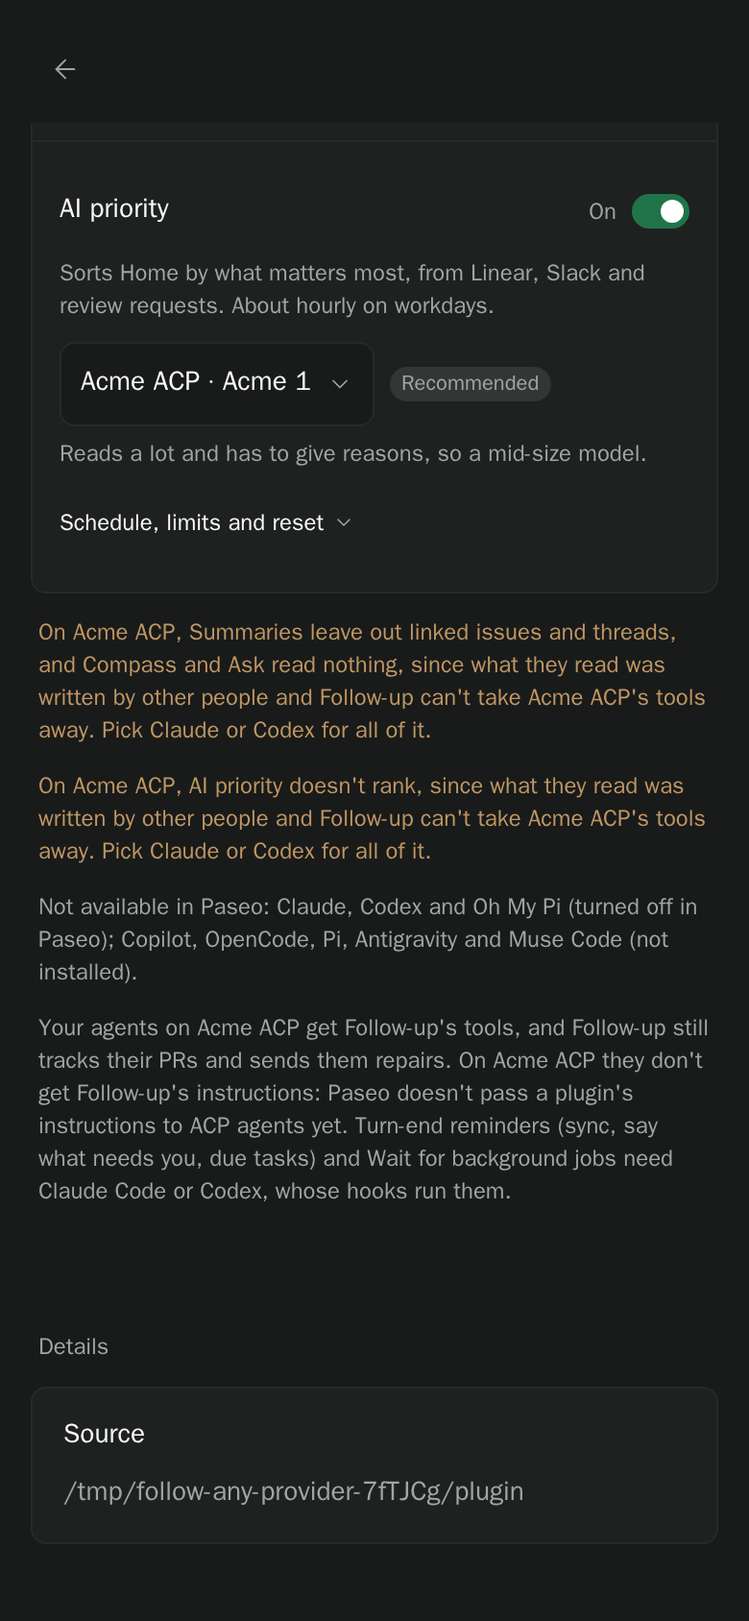
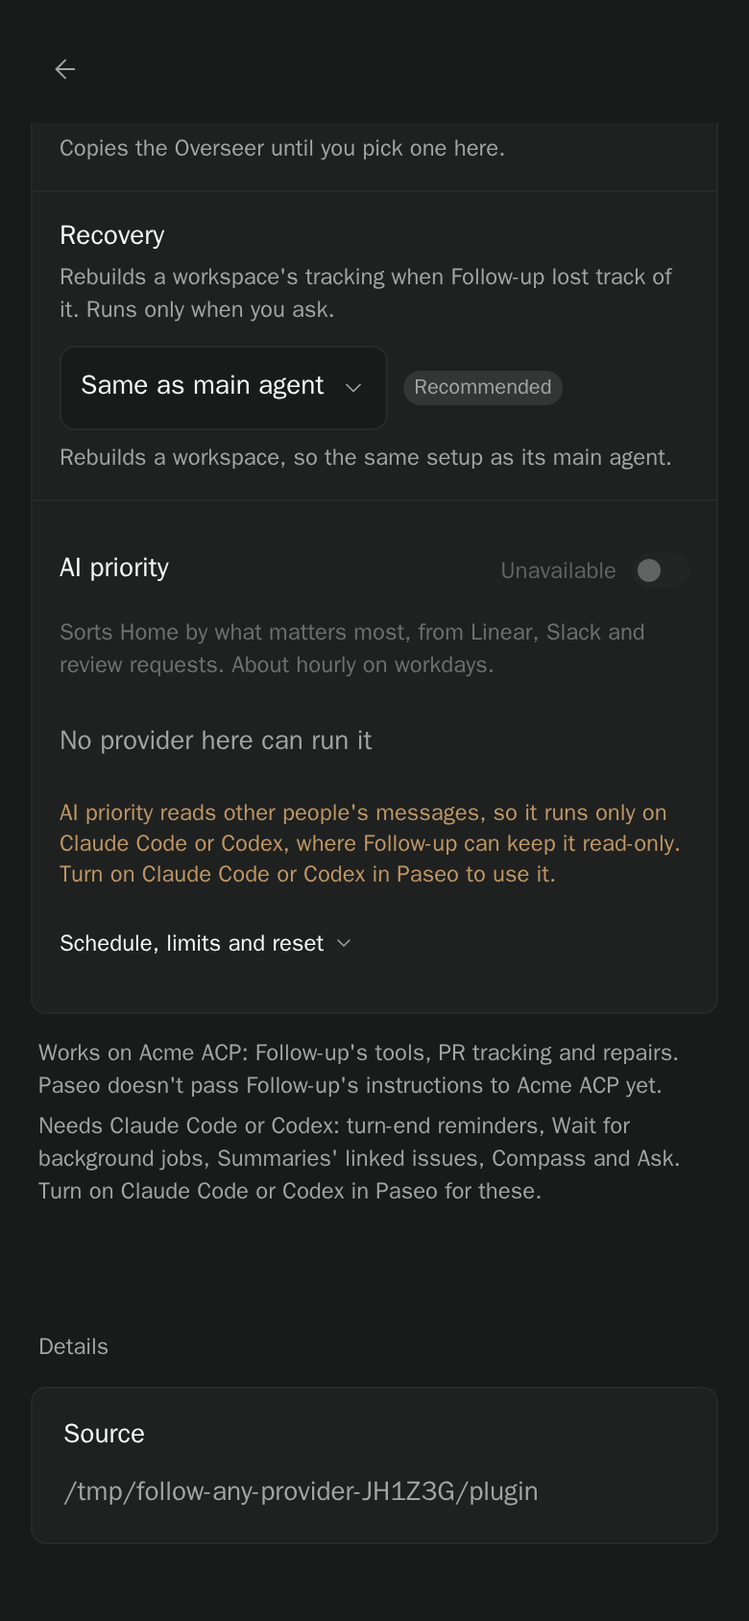
fix: Settings → Agents never recommends a helper where it can't run, in one block
AI priority reads other people's messages, so it runs only on Claude Code or
Codex: it is never Recommended on another provider, and with neither available
its row says Unavailable, shows no pick, and its undimmed reason says to install
or turn one on, never to pick one. The caveats under the rows are one block of
at most two short lines: what works on other providers, then what needs Claude
Code or Codex and the one thing to do (impeccable critique, twice).

Changed region(s): [[0.0308, 0.2773, 0.9538, 0.7393], [0.0615, 0.0924, 0.9231, 0.2464], [0.4923, 0.8934, 0.7077, 0.9242]]

diff --git a/tests/any-provider-core.test.ts b/tests/any-provider-core.test.ts
@@ -53,10 +53,12 @@ test("an-agent-on-any-provider-gets-follow-up: the worker with only OpenCode: to
   };
   const run = (name: string, input: unknown) => { const h = handlers.get(name) as Registered; return h.input.parseAsync(input).then(i => h.run(i, { paseo })); };
 
-  // Helpers: none was picked, Claude isn't here, so each runs on OpenCode, sized to the job.
+  // Helpers: none was picked, Claude isn't here, so each runs on OpenCode, sized to the job; AI priority, which reads
+  // what other people wrote, has no provider it can run on, so it stays put and its row says so (blocked).
   const view = await run("follow.agent-settings", { catalog: true }) as { roles: { role: string; provider: string; model: string | null; same: boolean }[] };
   const roles = Object.fromEntries(view.roles.map(r => [r.role, r]));
-  assert.deepEqual([roles.about!.provider, roles.ranker!.provider, roles.overseer!.provider], ["opencode", "opencode", "opencode"], "no helper defaults to a provider the developer lacks");
+  assert.deepEqual([roles.about!.provider, roles.overseer!.provider], ["opencode", "opencode"], "no helper defaults to a provider the developer lacks");
+  assert.notEqual(roles.ranker!.provider, "opencode", "AI priority is never moved onto a provider it can't run on");
   assert.equal(roles.about!.model, "small-fast"); assert.equal(roles.overseer!.model, "frontier");
   assert.equal(roles.recovery!.same, true, "recovery still copies the main agent, whatever it runs on");
 
@@ -79,17 +81,44 @@ test("an-agent-on-any-provider-gets-follow-up: the worker with only OpenCode: to
   await rm(tried, { force: true });
 });
 
-test("noHooksLine names what other providers miss, and nothing when every provider has hooks", async () => {
-  const { noHooksLine } = await import("../shared/provider-support");
-  const p = (id: string, label: string, available = true) => ({ id, label, available });
-  assert.equal(noHooksLine([p("claude", "Claude"), p("codex", "Codex")]), null);
-  assert.equal(noHooksLine([p("claude", "Claude"), p("opencode", "OpenCode", false)]), null, "an unavailable provider isn't the developer's");
-  const both = noHooksLine([p("opencode", "OpenCode"), p("pi", "Pi")])!;
-  assert.match(both, /^Your agents on OpenCode and Pi get Follow-up's tools, and Follow-up still tracks their PRs and sends them repairs\. Turn-end reminders .* need Claude Code or Codex, whose hooks run them\.$/);
-  assert.doesNotMatch(both, /instructions/, "OpenCode and Pi do get the instructions: nothing says otherwise");
-  assert.match(noHooksLine([p("copilot", "Copilot")])!, / On Copilot they don't get Follow-up's instructions: Paseo doesn't pass a plugin's instructions to ACP agents yet\./);
-  // A generic ACP agent carries the developer's own id: the worker marks it from Paseo's config (acp), never by id.
-  assert.match(noHooksLine([{ ...p("acme-acp", "Acme ACP"), acp: true }])!, / On Acme ACP they don't get Follow-up's instructions: /);
+test("providerNotes: at most two short lines, what works first, then what needs Claude Code or Codex and the one thing to do", async () => {
+  const { providerNotes, guardAction } = await import("../shared/provider-support");
+  const p = (id: string, label: string, available = true, reason: string | null = null) => ({ id, label, available, reason });
+  assert.deepEqual(providerNotes([p("claude", "Claude"), p("codex", "Codex")], "claude"), [], "nothing to say with Claude and Codex");
+  assert.deepEqual(providerNotes([p("claude", "Claude"), p("opencode", "OpenCode")], "claude"), [
+    "Works on OpenCode: Follow-up's tools, PR tracking and repairs.",
+    "Needs Claude Code or Codex: turn-end reminders and Wait for background jobs. Use Claude Code or Codex for these.",
+  ]);
+  // A new non-Claude user: only a generic ACP agent, Claude and Codex turned off, Summaries on the ACP agent.
+  const acp = providerNotes([p("claude", "Claude", false, "Turned off in Paseo"), p("codex", "Codex", false, "Turned off in Paseo"), p("pi", "Pi", false, "Not installed"), { ...p("acme-acp", "Acme ACP"), acp: true }], "acme-acp");
+  assert.deepEqual(acp, [
+    "Works on Acme ACP: Follow-up's tools, PR tracking and repairs. Paseo doesn't pass Follow-up's instructions to Acme ACP yet.",
+    "Needs Claude Code or Codex: turn-end reminders, Wait for background jobs, Summaries' linked issues, Compass and Ask. Turn on Claude Code or Codex in Paseo for these.",
+  ]);
+  assert.doesNotMatch(acp.join(" "), /Pick Claude|hooks|tools away/, "no dead end, no mechanism words");
+  assert.equal(guardAction([p("opencode", "OpenCode")]), "Install Claude Code or Codex");
+  assert.equal(guardAction([p("codex", "Codex"), p("opencode", "OpenCode")]), "Use Claude Code or Codex");
+});
+
+test("a helper that reads other people's words is never Recommended where it can't run, and shows off with no guarded provider", async () => {
+  const { jobRow } = await import("../shared/job-rows");
+  const { recommend } = await import("../shared/recommend");
+  const { resolveRole, roleSummary, EMPTY_AGENT_SETTINGS } = await import("../shared/agent-settings");
+  const prov = (id: string, available = true, reason: string | null = null) => ({ id, label: id === "acme-acp" ? "Acme ACP" : id, available, reason, models: [{ id: `${id}-1`, label: `${id} 1`, isDefault: true, thinking: [] }], modes: [], defaultMode: null });
+  const cat = (...providers: ReturnType<typeof prov>[]) => ({ providers, error: null, fetchedAt: null });
+  const ranker = (over: Record<string, unknown> = {}) => { const d = { ...resolveRole(EMPTY_AGENT_SETTINGS, "ranker"), ...over }; return { ...d, summary: roleSummary(d) }; };
+  const none = cat(prov("claude", false, "Turned off in Paseo"), prov("codex", false, "Not installed"), prov("acme-acp"));
+  assert.equal(recommend("ranker", none.providers).source, "none", "AI priority is never recommended on an unguarded provider");
+  assert.equal(recommend("about", none.providers).provider, "acme-acp", "Summaries still runs there");
+  const blocked = jobRow(ranker({ provider: "acme-acp", model: null }), none);
+  assert.equal(blocked.blocked, true); assert.equal(blocked.recommended, false);
+  assert.equal(blocked.pick, "No provider here can run it", "never a pick on a provider the developer lacks");
+  assert.equal(blocked.notice?.tone, "warning");
+  assert.match(blocked.notice!.text, /^AI priority reads other people's messages, so it runs only on Claude Code or Codex, where Follow-up can keep it read-only\. Turn on Claude Code or Codex in Paseo to use it\.$/);
+  const withCodex = cat(prov("codex"), prov("acme-acp"));
+  const moved = jobRow(ranker({ provider: "acme-acp", model: null }), withCodex);
+  assert.equal(moved.blocked, false); assert.equal(moved.recommended, false); assert.equal(moved.rec?.provider, "codex");
+  assert.match(moved.notice!.text, /^AI priority reads other people's messages, so it runs only on Claude Code or Codex, .* Recommended: /);
 });
 
 test("isAcp follows Paseo's config: a provider that extends acp, directly or through another, is ACP", async () => {

diff --git a/client/agents.tsx b/client/agents.tsx
@@ -6,9 +6,9 @@ import { SettingsAction, SettingsCard, SettingsSection, SettingsSelect, Settings
 import { useMutation, useQuery, useQueryClient } from "@tanstack/react-query";
 import { agentSettingsRpc, setAgentSettingRpc, setWaitRpc } from "../shared/contracts";
 import { WAIT_HOST_NOTE, WAIT_NOT_ATTACHED, waitNote, waitSwitchCopy } from "../shared/wait";
-import { OUTSIDE_READS, guardedProvider, hasSame, isJobRole, type AgentRole, type AgentSettingsView, type SavedRole } from "../shared/agent-settings";
+import { hasSame, isJobRole, type AgentRole, type AgentSettingsView, type SavedRole } from "../shared/agent-settings";
 import { NO_PROMPT_MODE, SETTINGS_ORDER, isReset, resetEntry } from "../shared/job-rows";
-import { noHooksLine } from "../shared/provider-support";
+import { providerNotes } from "../shared/provider-support";
 import { JobRows, agentSettingsKey, useAgentSettings, type JobExtra } from "./job-rows";
 import { Button, errorText, text, type Theme } from "./kit";
 
@@ -27,7 +27,9 @@ export function AgentSettings({ theme, compact }: Pick<PluginSurfaceProps, "them
   const c = theme.colors; const t = text(c);
   const { query } = useAgentSettings();
   const data = query.data;
-  const noHooks = data?.catalog ? noHooksLine(data.catalog.providers) : null;
+  // One block under the rows: what works on other providers, what needs Claude Code or Codex and what to do, then what
+  // Paseo doesn't have (an-agent-on-any-provider-gets-follow-up; AI priority says its own case on its row).
+  const notes = data?.catalog ? providerNotes(data.catalog.providers, data.roles.find(r => r.role === "about")?.provider ?? null) : null;
   const more: JobExtra = {
     // The toggle names what's inside, so nobody opens it to find out.
     label: r => r.role === "ranker" ? "Schedule, limits and reset" : isJobRole(r.role) ? "Limits and reset" : r.same ? null : "Permissions and reset",
@@ -38,15 +40,9 @@ export function AgentSettings({ theme, compact }: Pick<PluginSurfaceProps, "them
     <SettingsCard>
       <JobRows theme={theme} compact={compact} order={SETTINGS_ORDER} extra={more} />
     </SettingsCard>
-    {/* A job role on a provider Follow-up can't take tools from: what it no longer reads, and why (invariant 81). */}
-    {(data?.roles ?? []).filter(r => isJobRole(r.role) && !guardedProvider(r.provider) && OUTSIDE_READS[r.role]).map(r => {
-      const label = data?.catalog?.providers.find(p => p.id === r.provider)?.label ?? r.provider;
-      return <Text key={r.role} accessibilityRole="alert" style={[t.meta, { color: c.statusWarning, paddingHorizontal: 4, maxWidth: 720 }]}>{unguardedLine(r.role, label)}</Text>;
-    })}
-    {/* Once, after the rows: what can't be picked and why (the pickers only list what can). */}
-    {!!data?.catalog && unavailableLine(data.catalog.providers) && <Text style={[t.meta, { paddingHorizontal: 4, maxWidth: 720 }]}>{unavailableLine(data.catalog.providers)}</Text>}
-    {/* What agents on a provider without Follow-up's hooks don't get, and why (an-agent-on-any-provider-gets-follow-up). */}
-    {!!noHooks && <Text style={[t.meta, { paddingHorizontal: 4, maxWidth: 720 }]}>{noHooks}</Text>}
+    {!!notes?.length && <View style={{ gap: 4, paddingHorizontal: 4, maxWidth: 720 }}>
+      {notes.map(line => <Text key={line} style={t.meta}>{line}</Text>)}
+    </View>}
   </SettingsSection>;
 }
 
@@ -123,22 +119,4 @@ function RoleMore({ r, save, busy, theme, compact, invalid }: { r: Role; save: (
 }
 
 const roleDefaultText = (role: AgentRole) => role === "recovery" ? "the main agent's setup" : role === "dispatch" ? "the Overseer's agent" : role === "overseer" ? "Claude, newest Opus" : role === "about" ? "Claude Haiku" : "Claude Sonnet, hourly";
-/** "Not available in Paseo: Claude and Pi (turned off in Paseo); Antigravity (not installed)." Grouped by reason; a
- * provider whose name is also on a ready one isn't listed, so the line never contradicts the rows. */
-/** "On OpenCode, AI priority doesn't rank, since what it reads was written by other people…" (invariant 81). */
-export const unguardedLine = (role: AgentRole, label: string) =>
-  `On ${label}, ${OUTSIDE_READS[role]}, since what they read was written by other people and Follow-up can't take ${label}'s tools away. Pick Claude or Codex for all of it.`;
-
-function unavailableLine(providers: readonly { label: string; available: boolean; reason: string | null }[]): string | null {
-  const ready = new Set(providers.filter(p => p.available).map(p => p.label));
-  const groups = new Map<string, string[]>();
-  for (const p of providers) if (!p.available && !ready.has(p.label)) {
-    // Paseo's reasons can name binaries and PATH; developers here only need "not installed".
-    const why = /not found|PATH|not installed/i.test(p.reason ?? "") ? "not installed" : (p.reason ?? "unavailable").replace(/\.$/, "");
-    groups.set(why, [...(groups.get(why) ?? []), p.label]);
-  }
-  if (!groups.size) return null;
-  const list = (names: string[]) => names.length < 2 ? names.join("") : `${names.slice(0, -1).join(", ")} and ${names[names.length - 1]}`;
-  return `Not available in Paseo: ${[...groups].map(([why, names]) => `${list(names)} (${why[0].toLowerCase()}${why.slice(1)})`).join("; ")}.`;
-}
 const withCurrent = (list: number[], value: number) => [...new Set([...list, value])].sort((a, b) => a - b);

diff --git a/client/job-rows.tsx b/client/job-rows.tsx
@@ -106,7 +106,8 @@ export function JobRows({ theme, compact, order, extra, preselect = false }: {
       const on = field && display.status === "ready" ? display.values[field] !== false : null;
       return <JobRow key={r.role} first={i === 0} row={rows[i]} r={r} catalog={catalog?.providers ?? []} loading={!catalog} theme={theme} compact={compact} busy={busy}
         open={open === r.role} onToggle={() => setOpen(open === r.role ? null : r.role)}
-        enabled={field ? on : undefined} onEnable={field && display.status === "ready" ? v => void display.save({ ...display.values, [field]: v }, display.revision).catch(e => toast.error(errorText(e))) : undefined}
+        // A job no available provider can run (needsGuard) shows off, and its notice says why; the setting is kept.
+        enabled={field ? (rows[i]!.blocked ? false : on) : undefined} onEnable={field && display.status === "ready" && !rows[i]!.blocked ? v => void display.save({ ...display.values, [field]: v }, display.revision).catch(e => toast.error(errorText(e))) : undefined}
         save={entry => change.mutate({ role: r.role, entry })} extra={extra} />;
     })}
   </View>;
@@ -125,12 +126,16 @@ export function JobRow({ row, r, catalog, loading, theme, compact, busy, open, o
   return <View style={{ borderTopWidth: first ? 0 : 1, borderTopColor: c.border, paddingHorizontal: pad, paddingVertical: 14, gap: 2 }}>
     <View style={{ flexDirection: "row", alignItems: "center", gap: 10 }}>
       <Text accessibilityRole="header" style={[t.label, { flex: 1 }]}>{row.title}</Text>
-      {enabled !== undefined && <Switch theme={theme} compact={compact} label={enabled ? "On" : "Off"} accessibilityLabel={row.title} value={enabled} disabled={!onEnable} onChange={v => onEnable?.(v)} />}
+      {enabled !== undefined && <Switch theme={theme} compact={compact} label={row.blocked ? "Unavailable" : enabled ? "On" : "Off"} accessibilityLabel={row.title} hint={row.blocked ? row.notice?.text : undefined} value={enabled} disabled={!onEnable} onChange={v => onEnable?.(v)} />}
     </View>
     <Text style={[t.meta, off && { opacity: 0.6 }]}>{row.does}</Text>
-    <View style={{ opacity: off ? 0.6 : 1, gap: 6, marginTop: 8 }}>
+    {/* An off row dims, but never its warning: the one line that says why must stay readable. */}
+    <View style={{ opacity: off && row.notice?.tone !== "warning" ? 0.6 : 1, gap: 6, marginTop: 8 }}>
       <View style={{ flexDirection: "row", flexWrap: "wrap", alignItems: "center", gap: 8 }}>
-        {loading
+        {row.blocked && !loading
+          // Nothing here can run it: the state as plain text, not a picker that opens onto choices that can't run it.
+          ? <Text style={[t.body, { color: c.foregroundMuted, minHeight: compact ? 44 : 32, textAlignVertical: "center", paddingVertical: compact ? 12 : 6 }]}>{row.pick}</Text>
+          : loading
           ? <View style={{ flexDirection: "row", alignItems: "center", gap: 8, minHeight: compact ? 44 : 32 }}><Spinner color={c.foregroundMuted} size={14} /><Text style={t.meta}>Reading your providers…</Text></View>
           : <Pressable accessibilityRole="button" accessibilityLabel={`${row.title} model: ${row.pick}. Change`} accessibilityState={{ expanded: open, disabled: busy }} aria-expanded={open}
               disabled={busy && !open} onPress={onToggle}
@@ -140,7 +145,7 @@ export function JobRow({ row, r, catalog, loading, theme, compact, busy, open, o
             </Pressable>}
         {row.recommended && <Chip theme={theme} label="Recommended" color={c.foregroundMuted} />}
       </View>
-      <Text style={[t.meta, { fontSize: 12, lineHeight: 16 }]}>{row.hint ? `${row.need} ${row.hint}` : row.need}</Text>
+      {!row.blocked && <Text style={[t.meta, { fontSize: 12, lineHeight: 16 }]}>{row.hint ? `${row.need} ${row.hint}` : row.need}</Text>}
       {row.notice && <View style={{ gap: 6, alignItems: "flex-start" }}>
         <Text accessibilityRole={row.notice.tone === "warning" ? "alert" : undefined} style={[t.meta, { fontSize: 12, lineHeight: 16, color: row.notice.tone === "warning" ? c.statusWarning : c.foregroundMuted }]}>{row.notice.text}</Text>
         {/* Can't run: a real button, the row's one way back. Only differs: the developer chose it, so a quiet link. */}

diff --git a/shared/provider-support.ts b/shared/provider-support.ts
@@ -36,20 +36,35 @@ export function isAcp(provider: string, config?: ProviderConfig): boolean {
 }
 const list = (names: string[]) => names.length <= 1 ? names.join("") : `${names.slice(0, -1).join(", ")} and ${names.at(-1)}`;
 
+type NoteProvider = { id: string; label: string; available: boolean; reason?: string | null; acp?: boolean };
+
 /**
- * The one line that says what agents on the developer's other providers miss, and why; null when every available
- * provider has hooks. Settings → Agents shows it under the helper rows.
+ * What to do to get what needs Claude Code or Codex, from what Paseo has: use them when one is available, turn one on
+ * when Paseo has it turned off, install one otherwise. Never "pick" a provider the developer can't pick.
  */
-export function noHooksLine(providers: readonly { id: string; label: string; available: boolean; acp?: boolean }[]): string | null {
+export function guardAction(providers: readonly NoteProvider[]): string {
+  const guarded = providers.filter(p => hasHooks(p.id));
+  if (guarded.some(p => p.available)) return "Use Claude Code or Codex";
+  if (guarded.some(p => /turned off/i.test(p.reason ?? ""))) return "Turn on Claude Code or Codex in Paseo";
+  return "Install Claude Code or Codex";
+}
+
+/**
+ * Settings → Agents' one block under the helper rows, at most two short lines: what works on the developer's other
+ * providers (and, for ACP agents, the one thing Paseo doesn't pass yet), then what needs Claude Code or Codex with the
+ * one thing to do (guardAction). `summariesOn` is the provider Summaries runs on: off Claude and Codex it leaves out
+ * linked items, and Compass and Ask read nothing (sources-are-read-only). Why AI priority can't run is on its row.
+ * Empty when there's nothing to say.
+ */
+export function providerNotes(providers: readonly NoteProvider[], summariesOn: string | null): string[] {
   const others = providers.filter(p => p.available && !hasHooks(p.id));
-  if (!others.length) return null;
-  const acpOf = (p: { id: string; acp?: boolean }) => p.acp ?? isAcp(p.id);
-  const acp = others.filter(acpOf).map(p => p.label);
-  // Outcome first, then why; what still works, so "tools only" never reads as "doesn't work" (critique 2026-11-25).
-  const parts = [
-    `Your agents on ${list(others.map(p => p.label))} get Follow-up's tools, and Follow-up still tracks their PRs and sends them repairs.`,
-    acp.length ? `On ${list(acp)} they don't get Follow-up's instructions: Paseo doesn't pass a plugin's instructions to ACP agents yet.` : null,
-    "Turn-end reminders (sync, say what needs you, due tasks) and Wait for background jobs need Claude Code or Codex, whose hooks run them.",
+  const acp = others.filter(p => p.acp ?? isAcp(p.id)).map(p => p.label);
+  const needs = [
+    ...(others.length ? ["turn-end reminders", "Wait for background jobs"] : []),
+    ...(summariesOn && !hasHooks(summariesOn) ? ["Summaries' linked issues", "Compass", "Ask"] : []),
   ];
-  return parts.filter(Boolean).join(" ");
+  return [
+    others.length ? `Works on ${list(others.map(p => p.label))}: Follow-up's tools, PR tracking and repairs.${acp.length ? ` Paseo doesn't pass Follow-up's instructions to ${list(acp)} yet.` : ""}` : null,
+    needs.length ? `Needs Claude Code or Codex: ${list(needs)}. ${guardAction(providers)} for ${needs.length > 1 ? "these" : "it"}.` : null,
+  ].filter((x): x is string => !!x);
 }

diff --git a/shared/job-rows.ts b/shared/job-rows.ts
@@ -1,5 +1,6 @@
-import { EMPTY_AGENT_SETTINGS, ROLE_DEFAULTS, ROLE_INFO, SAME_LABEL, hasSame, isJobRole, labelsFor, resolveRole, roleSummary, type AgentRole, type AgentSettingsView, type Catalog, type RoleConfig, type SavedRole } from "./agent-settings";
+import { EMPTY_AGENT_SETTINGS, ROLE_DEFAULTS, guardedProvider, needsGuard, ROLE_INFO, SAME_LABEL, hasSame, isJobRole, labelsFor, resolveRole, roleSummary, type AgentRole, type AgentSettingsView, type Catalog, type RoleConfig, type SavedRole } from "./agent-settings";
 import { ROLE_NEED, isRecommended, recommend, type Recommendation } from "./recommend";
+import { guardAction } from "./provider-support";
 
 /**
  * One job row, as both setup's Helper agents step and Settings → Agents show it (client/job-rows.tsx renders it).
@@ -24,6 +25,8 @@ export type JobRowModel = {
   notice: { tone: "warning" | "muted"; text: string } | null;
   /** Said after the need line while the job is on the provider-default fallback. */
   hint: string | null;
+  /** No available provider can run this job (needsGuard): the row shows it off, with the notice saying why. */
+  blocked: boolean;
 };
 
 /** The provider each Paseo agent role switches to without prompting. */
@@ -59,13 +62,21 @@ export function jobRow(r: RoleView, catalog: Catalog | null | undefined): JobRow
   const current = providers.find(p => p.id === r.provider);
   const broken = known && !r.same && !current?.available;
   let notice: JobRowModel["notice"] = null;
-  if (broken) {
+  const title = ROLE_INFO[role].title;
+  const blocked = known && needsGuard(role) && !providers.some(p => p.available && guardedProvider(p.id));
+  if (blocked) {
+    notice = { tone: "warning", text: `${title} reads other people's messages, so it runs only on Claude Code or Codex, where Follow-up can keep it read-only. ${guardAction(providers)} to use it.` };
+  } else if (broken) {
     const name = current?.label ?? roleSummary(r).split(" · ")[0];
     notice = { tone: "warning", text: `${name} isn't available here, so ${WONT_RUN[role]}.${recPick ? ` Recommended: ${recPick}.` : ""}` };
+  } else if (known && needsGuard(role) && !r.same && !guardedProvider(r.provider)) {
+    notice = { tone: "warning", text: `${title} reads other people's messages, so it runs only on Claude Code or Codex, where Follow-up can keep it read-only.${recPick ? ` Recommended: ${recPick}.` : ""}` };
   } else if (recPick) notice = { tone: "muted", text: `Recommended: ${recPick}` };
   return {
-    role, title: ROLE_INFO[role].title, does: ROLE_INFO[role].does, need: ROLE_NEED[role], pick: r.summary, recommended, rec: usable, recPick, notice,
-    hint: recommended && usable?.source === "fallback" ? usable.hint : null,
+    role, title: ROLE_INFO[role].title, does: ROLE_INFO[role].does, need: ROLE_NEED[role],
+    // A blocked job shows no pick it can't run on (never a provider the developer lacks), only that nothing here runs it.
+    pick: blocked ? "No provider here can run it" : r.summary, recommended, rec: usable, recPick, notice,
+    hint: recommended && usable?.source === "fallback" ? usable.hint : null, blocked,
   };
 }
 

diff --git a/shared/recommend.ts b/shared/recommend.ts
@@ -1,4 +1,4 @@
-import { ROLE_DEFAULTS, type AgentRole, type CatalogModel, type CatalogProvider, type RoleConfig } from "./agent-settings";
+import { ROLE_DEFAULTS, guardedProvider, needsGuard, type AgentRole, type CatalogModel, type CatalogProvider, type RoleConfig } from "./agent-settings";
 
 /**
  * Which model each helper job should use, from whatever providers Paseo has. Setup's "Helper agents" step and
@@ -65,7 +65,8 @@ const lowEffort = (m: CatalogModel) => m.thinking.find(t => /^(minimal|low)$/i.t
 export function recommend(role: AgentRole, catalog: readonly CatalogProvider[]): Recommendation {
   const tier = ROLE_TIER[role];
   if (tier === "same") return { role, same: true, provider: ROLE_DEFAULTS[role].provider, model: null, thinking: null, source: "same", hint: null };
-  const providers = order(catalog);
+  // Never recommend a provider a job can't run on: AI priority only on Claude or Codex (sources-are-read-only).
+  const providers = order(catalog).filter(p => !needsGuard(role) || guardedProvider(p.id));
   if (!providers.length) return { role, same: false, provider: null, model: null, thinking: null, source: "none", hint: null };
   if (providers[0].id === "claude") { const d = ROLE_DEFAULTS[role]; return { role, same: false, provider: d.provider, model: d.model, thinking: d.thinking, source: "default", hint: null }; }
   for (const want of ["metadata", "name"] as const) {

diff --git a/shared/agent-settings.ts b/shared/agent-settings.ts
@@ -31,11 +31,11 @@ export const guardedProvider = (provider: string) => (CLI_JOB_PROVIDERS as reado
 /** The one line a refused job leaves (Settings → Agents, the source, the job's error). */
 export const unguardedJobWhy = (providerLabel: string, what: string) =>
   `${what} doesn't run on ${providerLabel}: it reads words other people wrote, and Follow-up can't take ${providerLabel}'s tools away. Pick Claude or Codex in Settings → Agents.`;
-/** What each job role reads from outside, for Settings → Agents' line on an unguarded provider. */
-export const OUTSIDE_READS: Partial<Record<AgentRole, string>> = {
-  about: "Summaries leave out linked issues and threads, and Compass and Ask read nothing",
-  ranker: "AI priority doesn't rank",
-};
+/**
+ * A job whose whole work reads words other people wrote (AI priority), so it runs only on a guarded provider: it's never
+ * recommended on any other, and with no guarded provider available its row says so and shows it off.
+ */
+export const needsGuard = (role: AgentRole) => role === "ranker";
 /** The roles that can copy another agent: recovery (the workspace's main agent) and dispatch (the Overseer). */
 export const hasSame = (role: AgentRole) => role === "recovery" || role === "dispatch";
 /** What a role's "same" copies, in the picker's words. */

diff --git a/tests/any-provider.test.ts b/tests/any-provider.test.ts
@@ -127,10 +127,11 @@ test("recommendations: OpenCode and Copilot go by the catalog's own wording firs
   const recs = recommendAll([COPILOT, OPENCODE]);
   assert.deepEqual([recs.about.provider, recs.about.model, recs.about.source], ["opencode", "qwen3-coder", "metadata"]);
   assert.deepEqual([recs.overseer.provider, recs.overseer.model, recs.overseer.source], ["opencode", "kimi-k2", "metadata"]);
-  assert.deepEqual([recs.ranker.provider, recs.ranker.model, recs.ranker.source], ["opencode", "glm-4.6", "metadata"]);
+  // AI priority reads what other people wrote: never recommended off Claude and Codex (sources-are-read-only).
+  assert.deepEqual([recs.ranker.provider, recs.ranker.source], [null, "none"]);
   // Copilot alone: names only; "gemini" is not "mini".
   const copilot = recommendAll([COPILOT]);
-  assert.deepEqual([copilot.about.model, copilot.overseer.model, copilot.ranker.model], ["gemini-2.5-flash", "gemini-2.5-pro", "gpt-4.1"]);
+  assert.deepEqual([copilot.about.model, copilot.overseer.model, copilot.ranker.provider], ["gemini-2.5-flash", "gemini-2.5-pro", null]);
   assert.equal(modelTier({ id: "gemini-2.5", label: "Gemini 2.5" }), null);
 });
 

diff --git a/AGENTS.md b/AGENTS.md
@@ -1391,7 +1391,9 @@ These are product rules. Each has tests, and breaking one is a bug even when the
 115. **An agent on any provider gets Follow-up** (`an-agent-on-any-provider-gets-follow-up`). Paseo runs agents on
    Claude Code, Codex and many more (OpenCode, Pi, Copilot, Cursor, Kimi, Kiro, any ACP agent), and many developers
    have neither Claude nor Codex. Every core feature works on any provider Paseo runs, or says in one line what needs
-   Claude or Codex and why (`noHooksLine`, `shared/provider-support.ts`, shown in Settings → Agents). Tools, `needs_you` and the Overseer's tools
+   Claude or Codex and why (`providerNotes`, `shared/provider-support.ts`: one block in Settings → Agents, with what to do,
+   never a pick the developer can't make). A helper is never Recommended on a provider it can't run on; with no such
+   provider available, AI priority's row shows it off and says why (`needsGuard`). Tools, `needs_you` and the Overseer's tools
    attach to every provider (`withTools`, `withSessionMcp`; `FOLLOW_UP_TOOL_PROVIDERS` narrows it for the harness
    only). On Paseo 0.17 a provider without Follow-up's hook gets all of the hook's SessionStart text in its system
    prompt (`hooklessParts`, `workspaceInstructions`); what only a hook can do (the Stop checks, per-turn context, the

diff --git a/docs/ai-roles.md b/docs/ai-roles.md
@@ -19,8 +19,10 @@
     `rank-plan`, Ask's `ask-plan` and `ask-items`, `compass-extract`, and a Summary with linked issues or threads).
     `AiJobs.run` refuses it before any runner on a provider `guardedProvider` doesn't name (anything but Claude or
     Codex), with reason `unguarded`, since a job agent there has its provider's own tools. The Summary leaves the linked
-    text out there and still runs on the workspace's own work. Settings → Agents says what doesn't run under the rows
-    (`OUTSIDE_READS`), and the source's own row (Compass, an Ask server) says why.
+    text out there and still runs on the workspace's own work. AI priority (`needsGuard`) is never recommended on such a
+    provider, and with none available its row shows it off and says what to install or turn on; the Summary's
+    linked items, Compass and Ask are named in the block under the rows (`providerNotes`), and the source's own row
+    (Compass, an Ask server) says why.
   - `catalogFrom` keeps each model's description (cut to 200 characters), which the recommendations read.
 - **RPCs and tools.** `follow.agent-settings`, `follow.set-agent-setting` and `follow.set-wait`; tools
   `agent_settings`, `set_agent_setting` and `set_wait_for_jobs`.

diff --git a/docs/hooks.md b/docs/hooks.md
@@ -72,7 +72,9 @@ Follow-up's hook lives only in those two. What an agent on any other provider ge
   claim). Which providers are ACP comes from Paseo's config (`isAcp`): a built-in ACP id, or any provider whose
   `extends` chain reaches one, so a generic ACP agent under the developer's own id counts.
 - **Not there**: the Stop checks (sync, `needs_you`, due tasks), the per-turn context, the polling nudge and Wait, all
-  hooks. `noHooksLine` says so in one line under Settings → Agents' helper rows when Paseo has such a provider.
+  hooks. `providerNotes` says so in Settings → Agents' one block under the helper rows, at most two short lines: what
+  works on those providers, then what needs Claude Code or Codex and the one thing to do (`guardAction`: use, turn on
+  or install, never a pick the developer can't make).
 
 ## Env flags
 
